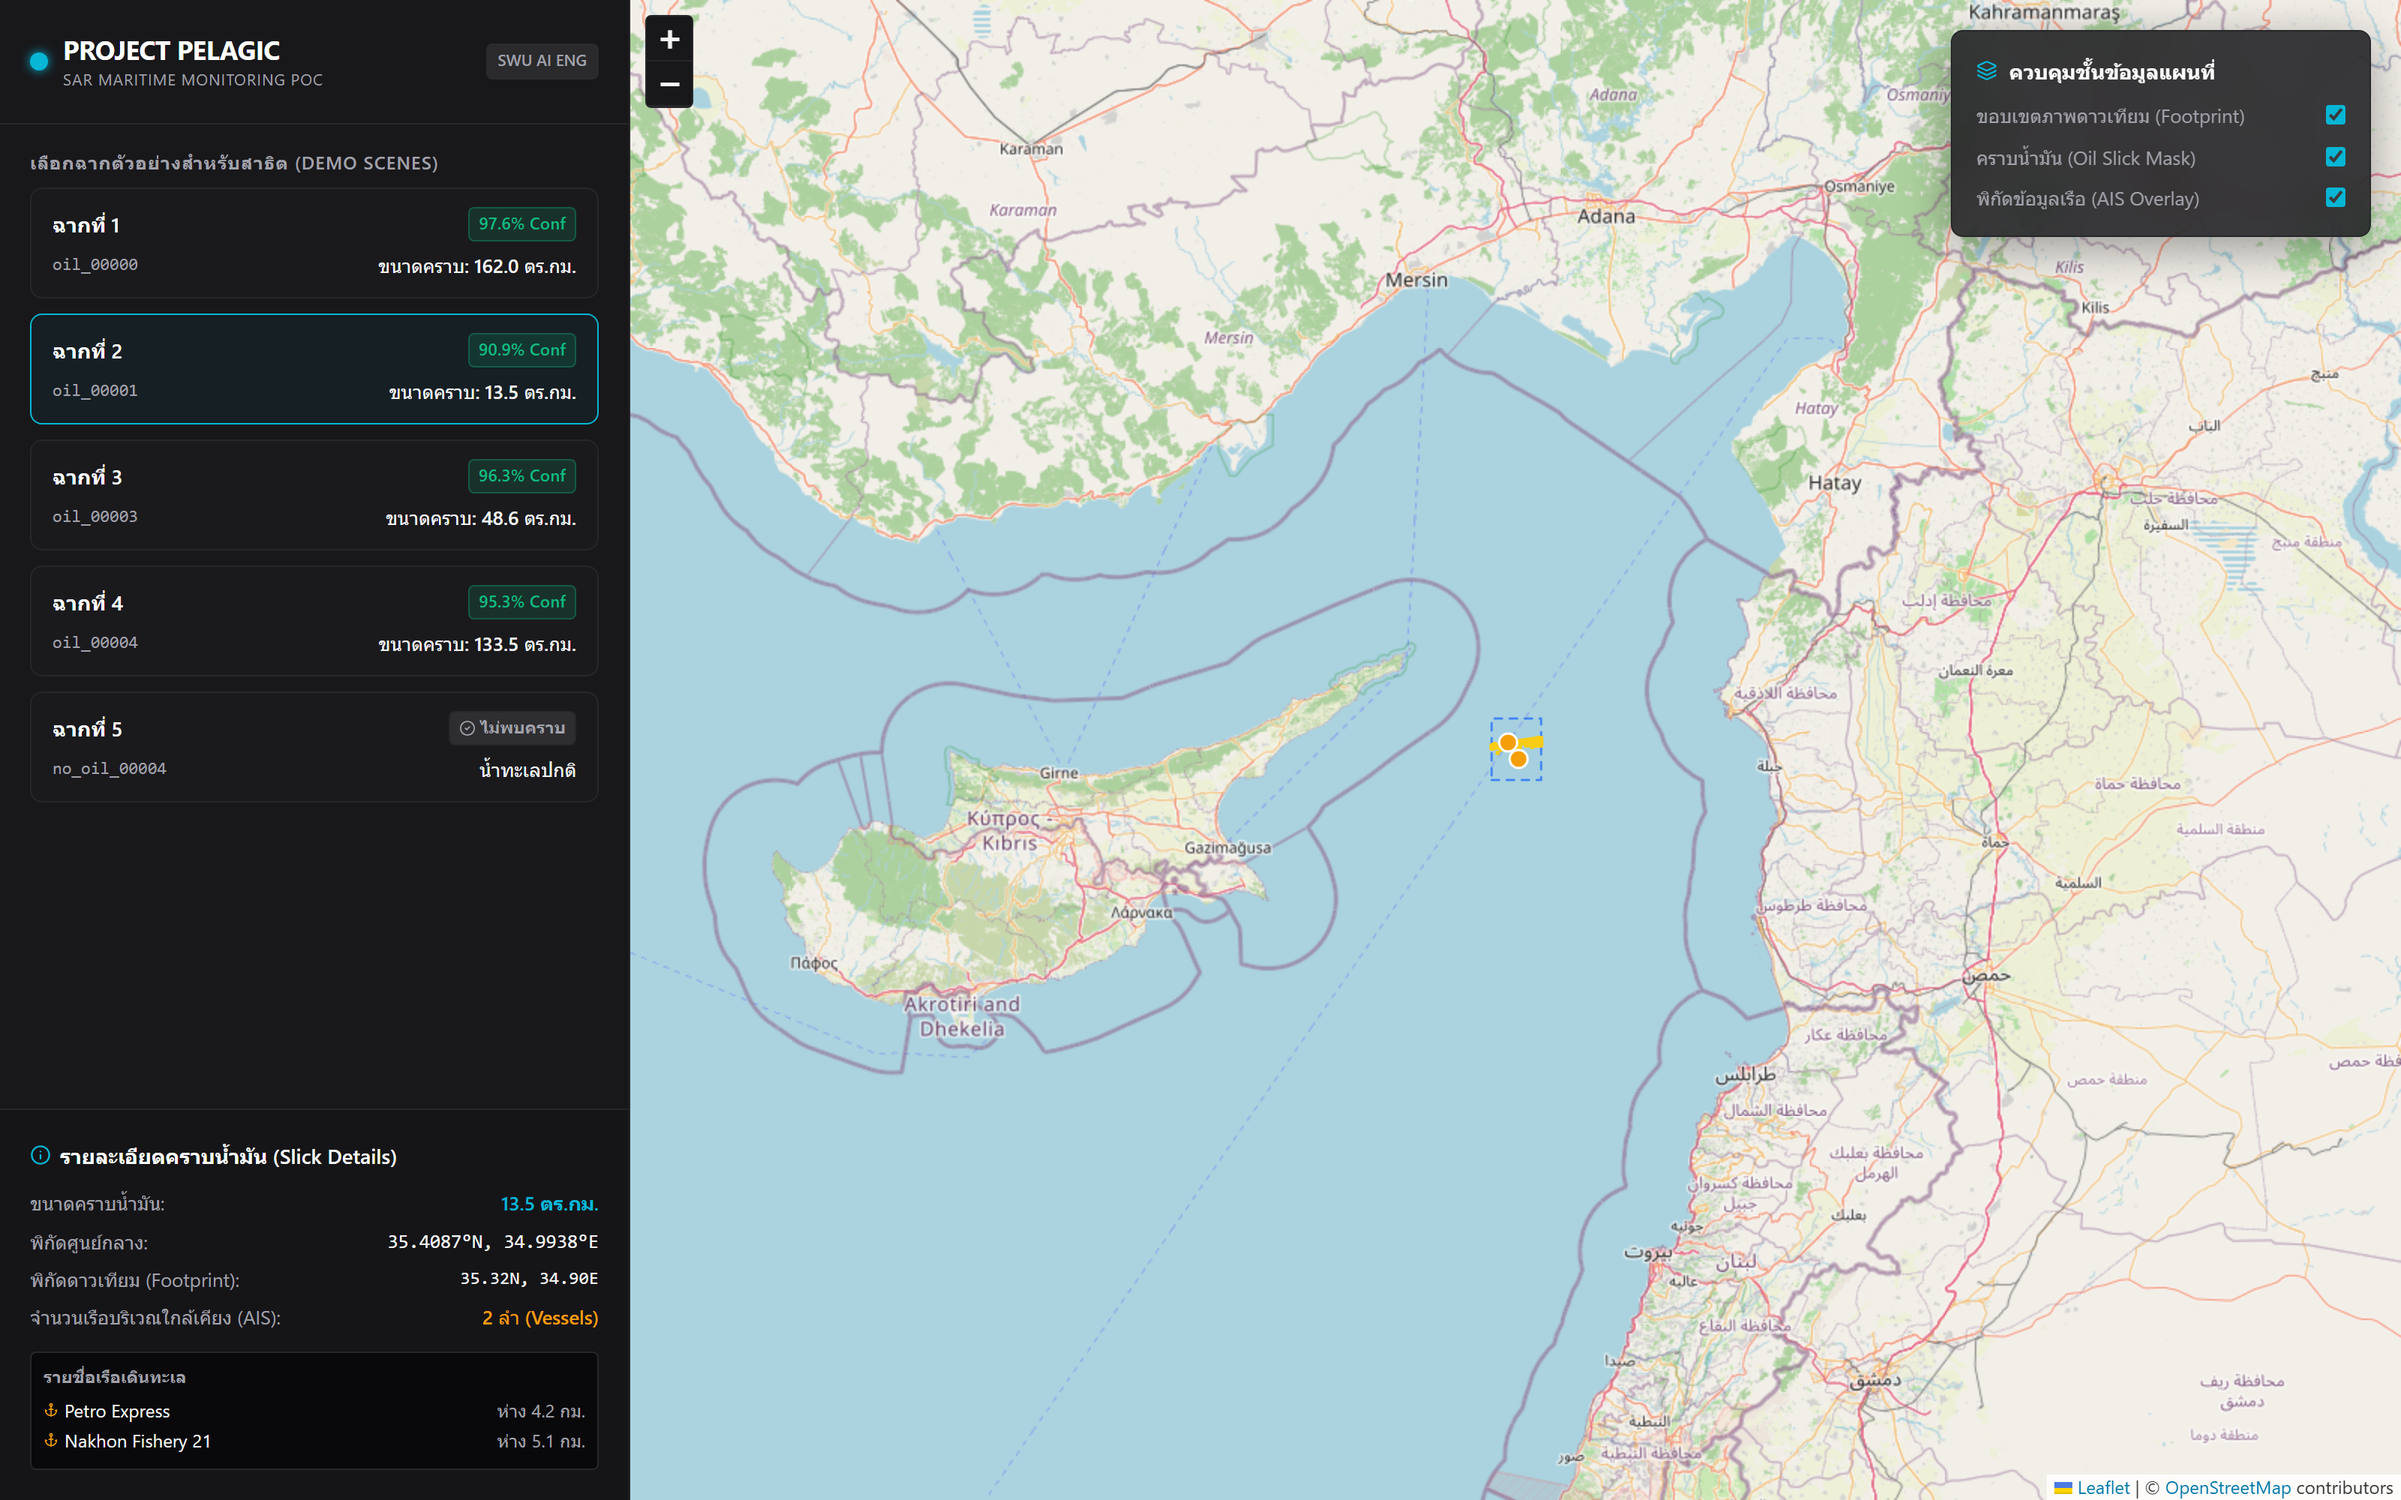
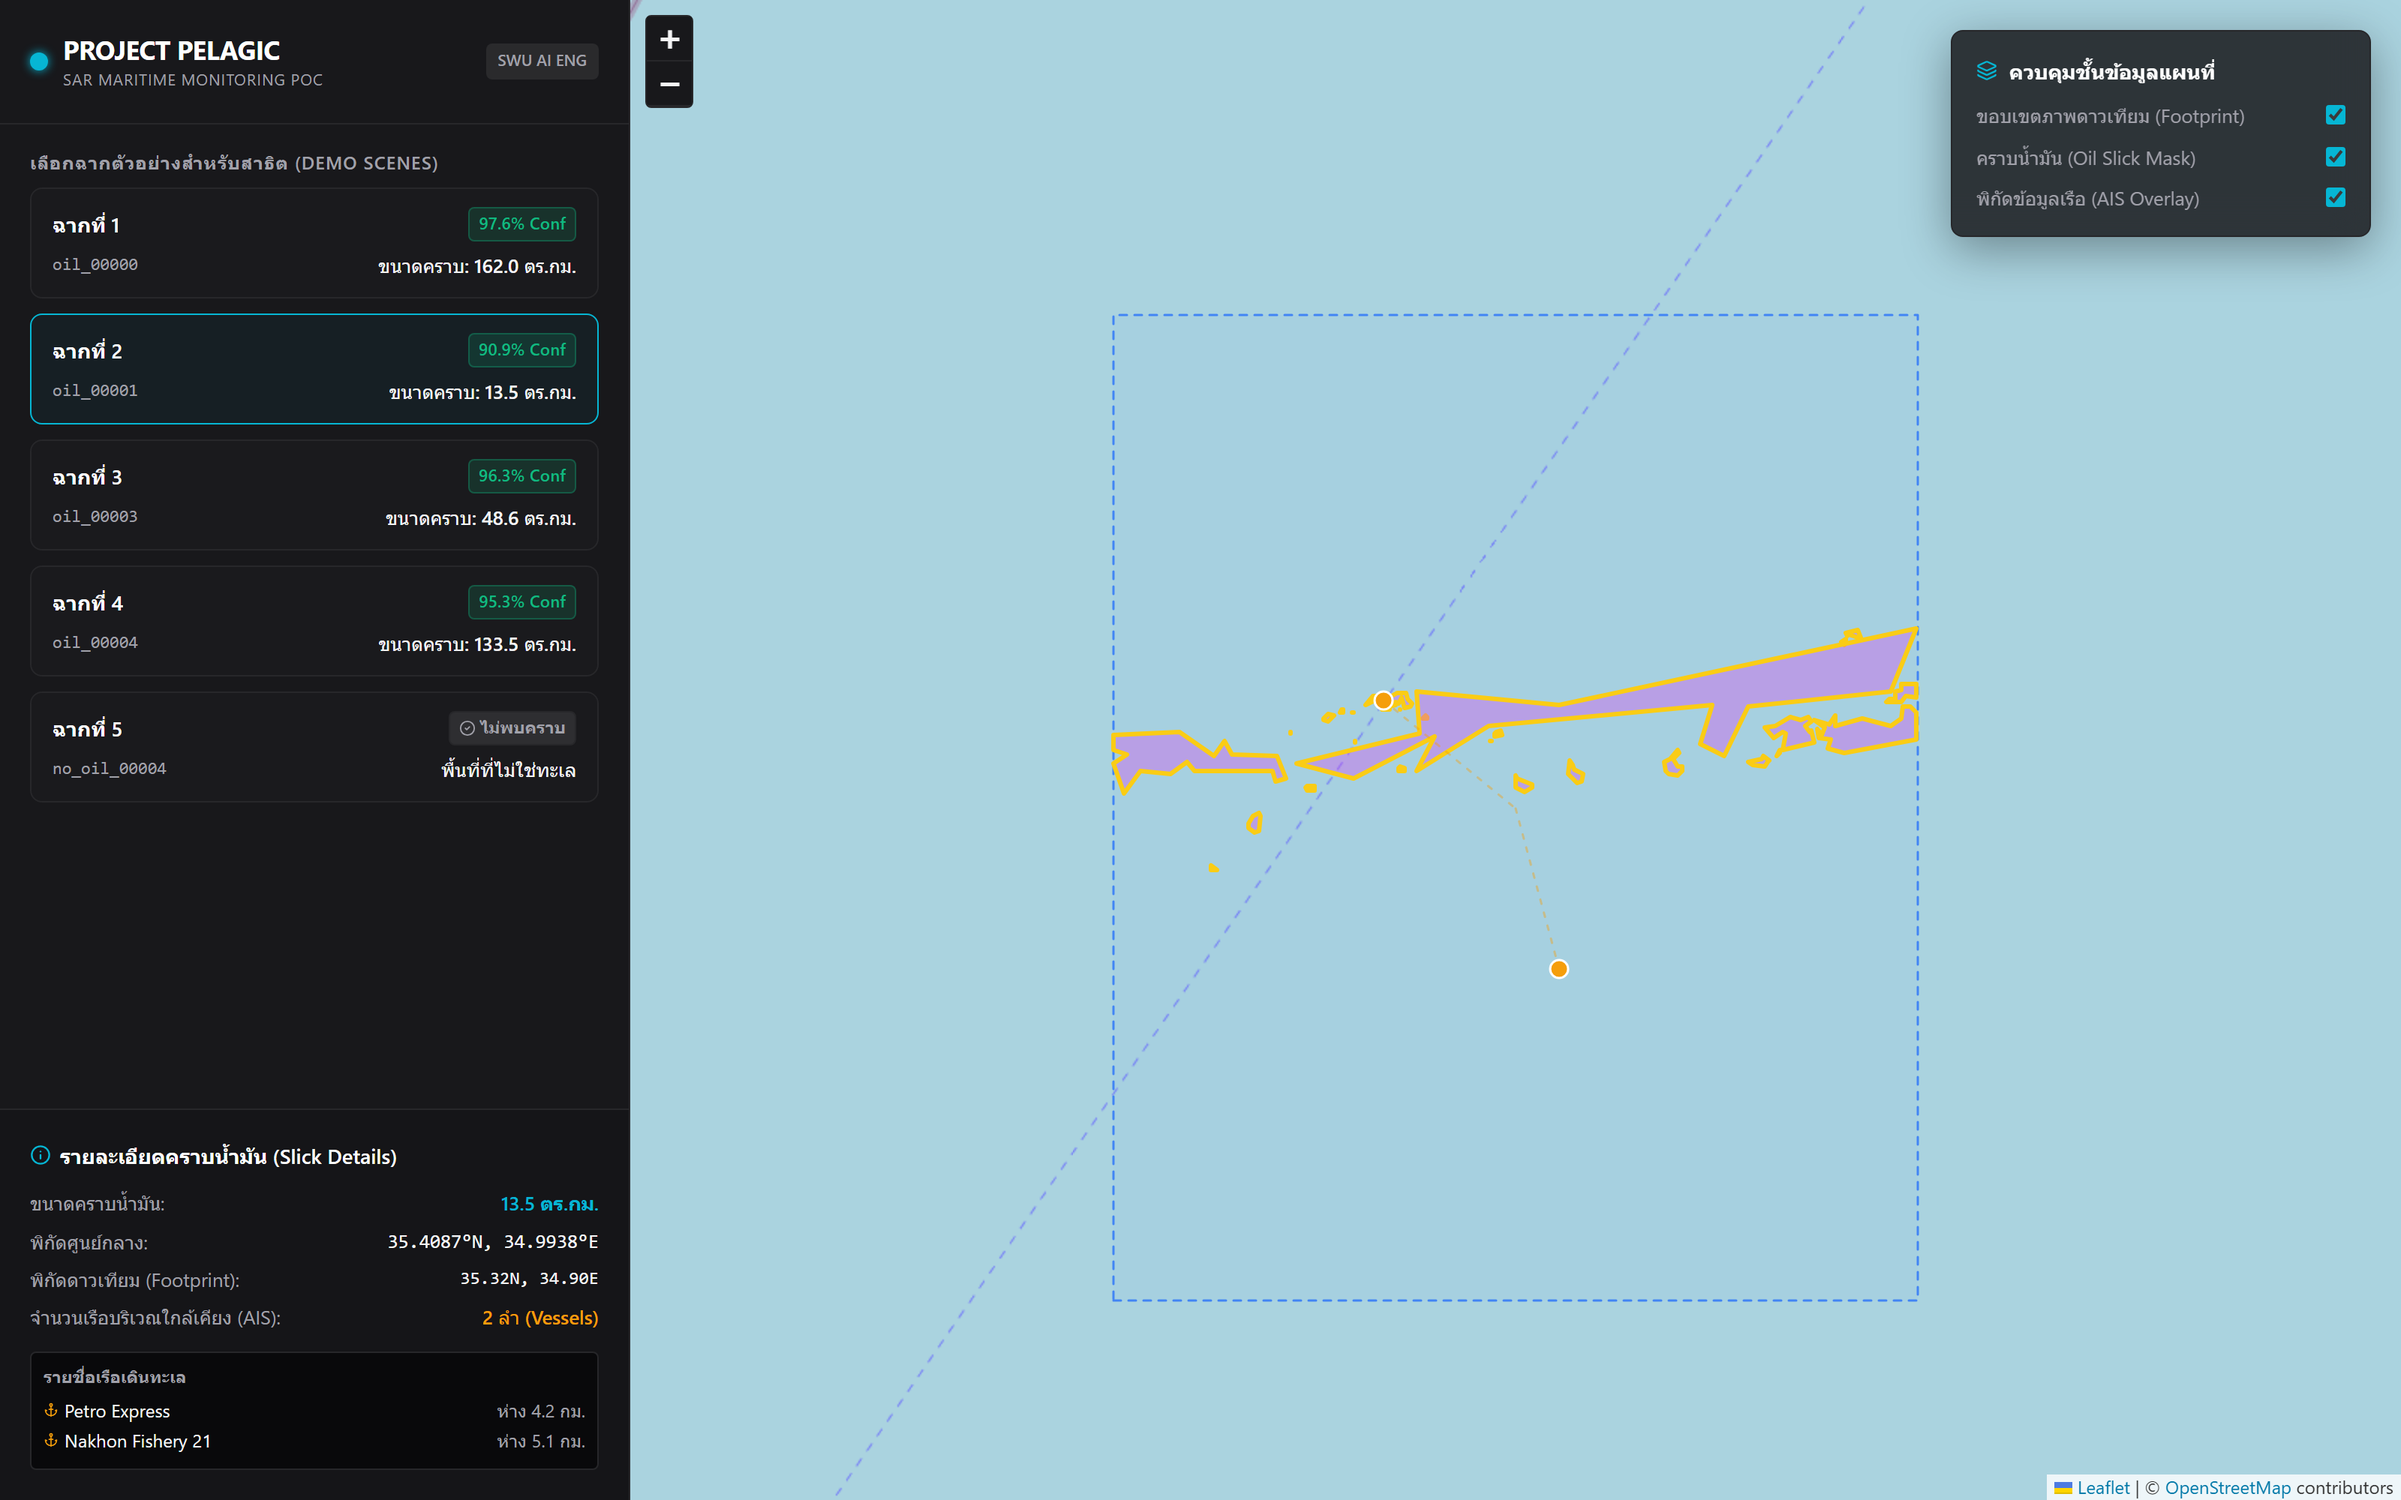
Fix map camera to fit each detection's real bounding box, not a fixed zoom
The map held a fixed zoom=8 centered on each scene regardless of the
detected polygon's real size. Measured directly (on-screen pixel bbox of
the rendered contour): 33x41px inside a 1180x1000 viewport for oil_00000's
162 km2 polygon -- an icon-sized dot no matter the scene. Fixed with
Leaflet fitBounds to each detection's real coordinate extent (polygon
bbox for real detections, satellite footprint bbox as fallback for
no-detection scenes) instead of panTo + fixed zoom. Re-measured after the
fix: 45-66% of the viewport across all 4 oil scenes (13.5-162 km2 range).

Fixing the framing also revealed no_oil_00004's real coordinates are
inland Turkey, not water -- the old zoomed-out view had been hiding this.
Investigated all 10 no_oil holdout scenes (raw SAR content + reverse
geocoding, not just SAR-texture guessing, which turned out unreliable):
confirmed open water and correct model suppression never co-occur in this
set for the current v2 checkpoint (the two water-confirmed scenes both
false-positive live; every correctly-suppressed scene is on land). Kept
no_oil_00004 as Scene 5, relabeled honestly as a non-maritime scene the
model correctly abstains on rather than mislabeled "clean water" -- see
docs/deck_assets/MANIFEST.md for the full writeup.

Also re-captured all 5 Track H fallback screenshots plus the scene-switch
interaction shot against the corrected framing -- the previous set showed
the same icon-sized contour problem this fixes.

diff --git a/frontend/src/App.jsx b/frontend/src/App.jsx
@@ -14,6 +14,14 @@ const DEMO_SCENES = [
   { id: 'oil_00001', title: 'ฉากที่ 2', category: 'oil' },
   { id: 'oil_00003', title: 'ฉากที่ 3', category: 'oil' },
   { id: 'oil_00004', title: 'ฉากที่ 4', category: 'oil' },
+  // Reverted from no_oil_00007 (and no_oil_00001 before that): reverse-geocoded
+  // every no_oil holdout scene's real coordinate and found "genuinely open
+  // water" and "live v2 model correctly outputs ~0% confidence" never overlap
+  // in this 10-scene set -- the only two confirmed-water scenes (no_oil_00000,
+  // no_oil_00001) both trigger live false positives (~67%, ~66%), and every
+  // scene the model correctly suppresses is on land. no_oil_00004 is a
+  // confirmed non-maritime (land) scene the model correctly abstains on --
+  // labeled as such below rather than mislabeled "clean water".
   { id: 'no_oil_00004', title: 'ฉากที่ 5', category: 'no_oil' },
 ];
 
@@ -48,14 +56,44 @@ function calcSlickAreaKm2(det) {
 // rendering/measuring that placeholder as if it were a detection.
 const hasRealDetection = (det) => !!det && det.confidence_score > 0.001;
 
-// Map controller to handle programmatically panning/zooming when selected detection changes
-function MapRecenter({ center }) {
+// Real bounding box to frame the camera on: the detected polygon's own
+// coordinate extent, not the (much larger) satellite scene footprint. A
+// fixed zoom centered on the scene made every contour icon-sized regardless
+// of its real area -- measured at 33x41px out of a 1180x1000 map viewport
+// for oil_00000's 162 km2 polygon at the old zoom=8. Falls back to the
+// scene footprint for no-oil detections, which have no real polygon to fit.
+function getFitBounds(det) {
+  if (!det) return null;
+  if (hasRealDetection(det) && det.geojson_mask && det.geojson_mask.coordinates) {
+    let minLat = Infinity, minLon = Infinity, maxLat = -Infinity, maxLon = -Infinity;
+    for (const ring of det.geojson_mask.coordinates) {
+      for (const [lon, lat] of ring) {
+        if (lat < minLat) minLat = lat;
+        if (lat > maxLat) maxLat = lat;
+        if (lon < minLon) minLon = lon;
+        if (lon > maxLon) maxLon = lon;
+      }
+    }
+    return [[minLat, minLon], [maxLat, maxLon]];
+  }
+  if (det.bbox) {
+    return [[det.bbox[0], det.bbox[1]], [det.bbox[2], det.bbox[3]]];
+  }
+  return null;
+}
+
+// Map controller to fit the camera to the selected detection's real bounding
+// box whenever the selection changes (not on every re-render -- keyed on
+// det.id so toggling a layer checkbox etc. doesn't re-trigger the fit/pan).
+function MapFitter({ det }) {
   const map = useMap();
   useEffect(() => {
-    if (center) {
-      map.panTo(center);
+    const bounds = getFitBounds(det);
+    if (bounds) {
+      map.fitBounds(bounds, { padding: [80, 80], maxZoom: 14 });
     }
-  }, [center, map]);
+    // eslint-disable-next-line react-hooks/exhaustive-deps
+  }, [det?.id, map]);
   return null;
 }
 
@@ -299,7 +337,7 @@ export default function App() {
                   </span>
                   <span style={{ fontWeight: 500 }}>
                     {isNoOil
-                      ? 'น้ำทะเลปกติ'
+                      ? 'พื้นที่ที่ไม่ใช่ทะเล'
                       : detected
                         ? `ขนาดคราบ: ${areaKm2.toFixed(1)} ตร.กม.`
                         : '—'}
@@ -325,7 +363,7 @@ export default function App() {
                   </span>
                 ) : (
                   <span style={{ fontWeight: 600, color: 'var(--success)', display: 'flex', alignItems: 'center', gap: '4px' }}>
-                    <CheckCircle2 size={13} /> ไม่พบคราบน้ำมัน (Clean Water)
+                    <CheckCircle2 size={13} /> ไม่พบคราบน้ำมัน — พื้นที่ที่ไม่ใช่ทะเล (Non-maritime, model correctly abstains)
                   </span>
                 )}
               </div>
@@ -383,7 +421,7 @@ export default function App() {
             url="https://{s}.tile.openstreetmap.org/{z}/{x}/{y}.png"
           />
           
-          <MapRecenter center={getMapCenter()} />
+          <MapFitter det={selectedDet} />
 
           {/* Render selected detection overlays */}
           {selectedDet && (

diff --git a/docs/deck_assets/MANIFEST.md b/docs/deck_assets/MANIFEST.md
@@ -48,6 +48,10 @@ Curated selection — 5 of the 14 available `holdout_v1/v2_viz_*.png` files, not
 
 Live-demo safety net, not a primary slide asset: real screenshots of the actual running Track G demo page (all 5 verified scenes + one scene-switch-in-progress shot), captured for the presentation only in case the live app can't run on the day (projector/wifi/backend failure) — not meant to replace the live demo when it works.
 
+**Map-framing fix (Track I) and its side finding.** The map used to hold a fixed zoom centered on each scene regardless of the detected polygon's real size — measured directly (on-screen pixel bounding box of the rendered contour) at 33×41px inside a 1180×1000 map viewport for `oil_00000`'s 162 km² polygon, i.e. an icon-sized dot no matter the scene. Fixed by fitting the camera to each detection's real coordinate bounding box (`Leaflet.fitBounds`, 80px padding, 14 max zoom) instead of a fixed zoom + pan; re-measured after the fix at 45–66% of the viewport across all 4 oil scenes (13.5–162 km² range) — screenshots in this folder reflect the fixed framing.
+
+Fixing the framing also *revealed* something the old zoomed-out view had been hiding: `no_oil_00004`'s real coordinates (36.2154°N, 36.6159°E) are inland Turkey (Reyhanlı, Hatay Province), not open water — confirmed by rendering the raw SAR `.tif` directly (a river-valley town, not a water signature) and by reverse-geocoding. Looking for a genuine open-water replacement surfaced a more general finding: across all 10 `no_oil` holdout scenes (reverse-geocoded + spot-checked against the OSM basemap, not just eyeballed from SAR grayscale, which turned out to be an unreliable way to tell calm water from vegetation), **"confirmed open water" and "the live v2 checkpoint correctly outputs ~0% confidence" never co-occur in this scene set** — the two confirmed-water scenes (`no_oil_00000`, `no_oil_00001`) both trigger live false positives (67.8%, 66.6%), and every scene the model correctly suppresses (`no_oil_00002/3/4/6/7/8/9`) is on land. (`no_oil_00005`'s source file is also separately broken — an all-zero array — and returns 99% confidence on that garbage input, a third, unrelated data-integrity issue.) Scene 5 in the live demo lineup stays on `no_oil_00004`, now honestly labeled as a non-maritime scene the model correctly abstains on rather than "clean water" — this is a real, verified characteristic of the current holdout set + `model_real_v2_best.pt` checkpoint, not a framing bug, and would need either a new held-out water scene or a checkpoint fix to resolve properly.
+
 ---
 
 ## Gaps against the professor's three feedback points
